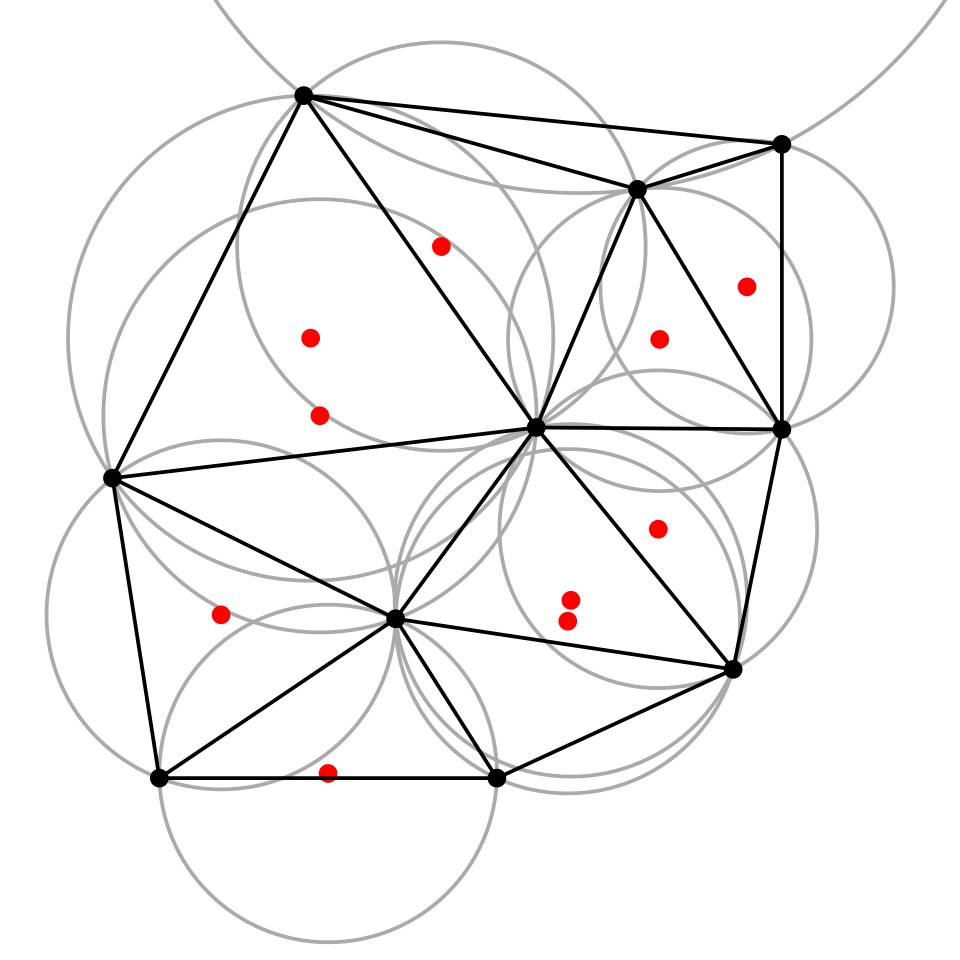
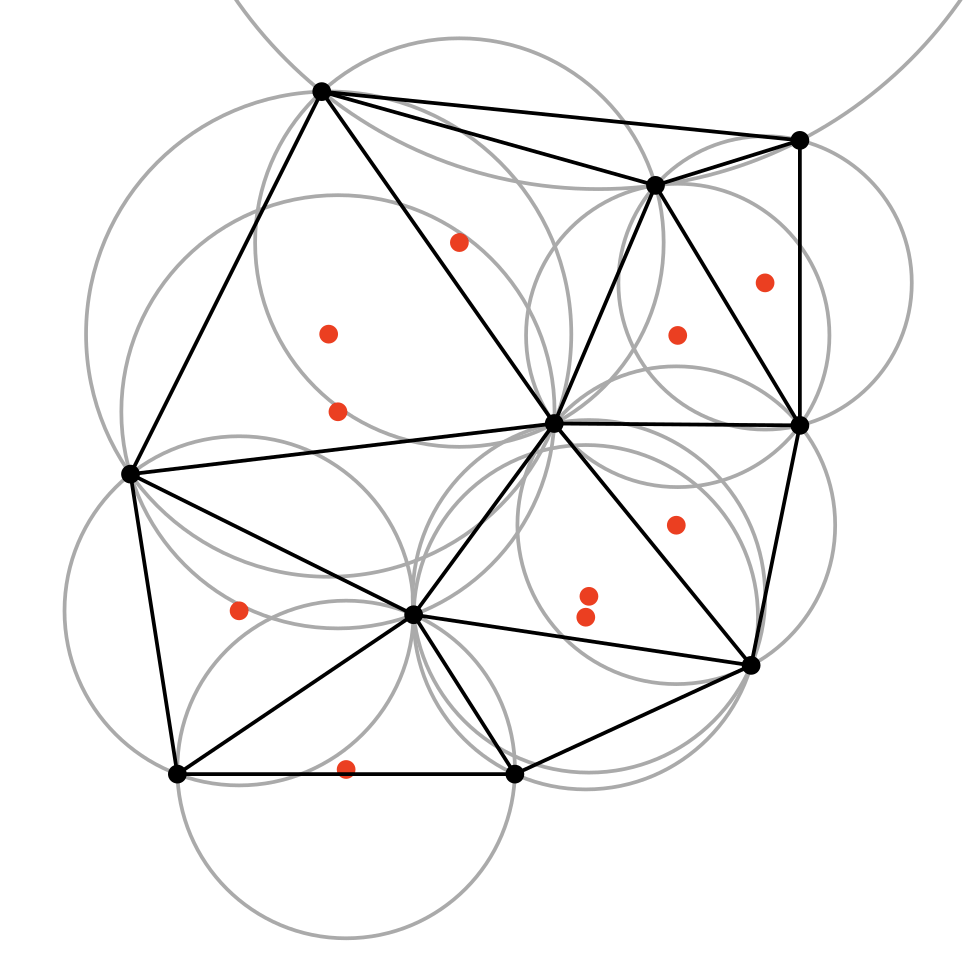
added Delaunay circumcircles image attribution and fixed background, testing formatting fix for concave hull example image

diff --git a/README.md b/README.md
@@ -2198,13 +2198,14 @@ Generates a bucket-hosted legacy-format neuroglancer volume containing a precomp
 
 Before explaining the optional parameters for this function, it's a good idea to understand how it works. If all we wanted was a [convex hull](https://en.wikipedia.org/wiki/Convex_hull), this would be simple to generate. Convex hulls are created by connecting the outermost points in a cloud and ignoring everything inside. This is fine for many purposes, but often you'll need to be able to make more detailed shapes that include concave regions. Doing this automatically, however, becomes complicated very quickly. Take the diagram below for example:
 
-![concave_hull_example](readme_images/concave_hull_example.png)
+<img src="readme_images/concave_hull_example.png" alt="concave_hull_example" style="width:50%; height:auto;">
 
 If we start with the black point cloud, we can easily generate the green convex hull at the top. However, if we want to include concavities, the computer doesn't know exactly which of the many possible "legitimate" configurations of point connections to use. All three of the shapes on the bottom row are legitimate possible ways of connecting the point cloud into a concave shape. The problem is even more difficult when you add a third spatial dimension.
 
 To solve this issue, we can use a process called [Delaunay Triangulation](https://en.wikipedia.org/wiki/Delaunay_triangulation), or more specifically, a modified version of it that produces a structure called an [alpha shape](https://en.wikipedia.org/wiki/Alpha_shape). Without going into the math too much, Delaunay Triangulation connects points into triangles in a way so that each triangle's [circumcircle](https://en.wikipedia.org/wiki/Circumcircle) (the circle on which all three points that make up the triangle lie) doesn't have any points within it. The process works very similarly in 3D except that instead of making triangles by fitting 3 points to a circle, it makes tetrahedrons by fitting 4 points to a sphere. See the diagram below for a 2D visualization of the result:
 
 ![delaunay_circumcircles_example](readme_images/delaunay_circumcircles_example.png)
+Above image derived from [public domain work on Wikipedia](https://commons.wikimedia.org/wiki/File:Delaunay_circumcircles_centers.svg) by user [Nü](https://es.wikipedia.org/wiki/Usuario:N%C3%BC)
 
 The alpha shape technique then takes this result and removes all the triangles too large to fit into a circle of a specified size. The radius of this circle is called the "alpha" value. A smaller alpha value will produce a more detailed final result, but risks breaking apart points in a way that creates holes in the final result. See the example below (this is what the exterior hull of the final shape would look like, not all triangles are drawn):
 
